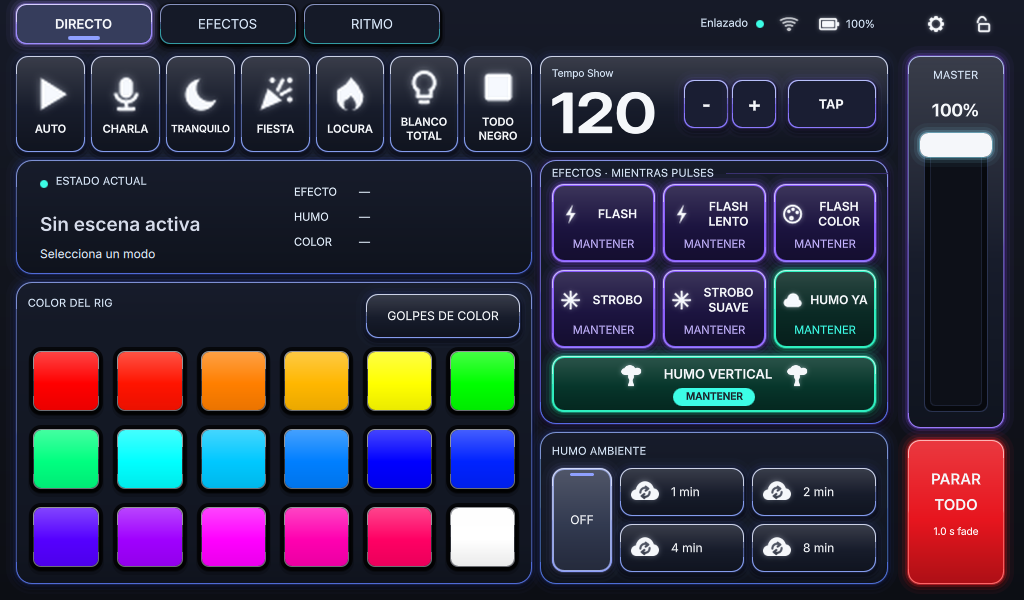
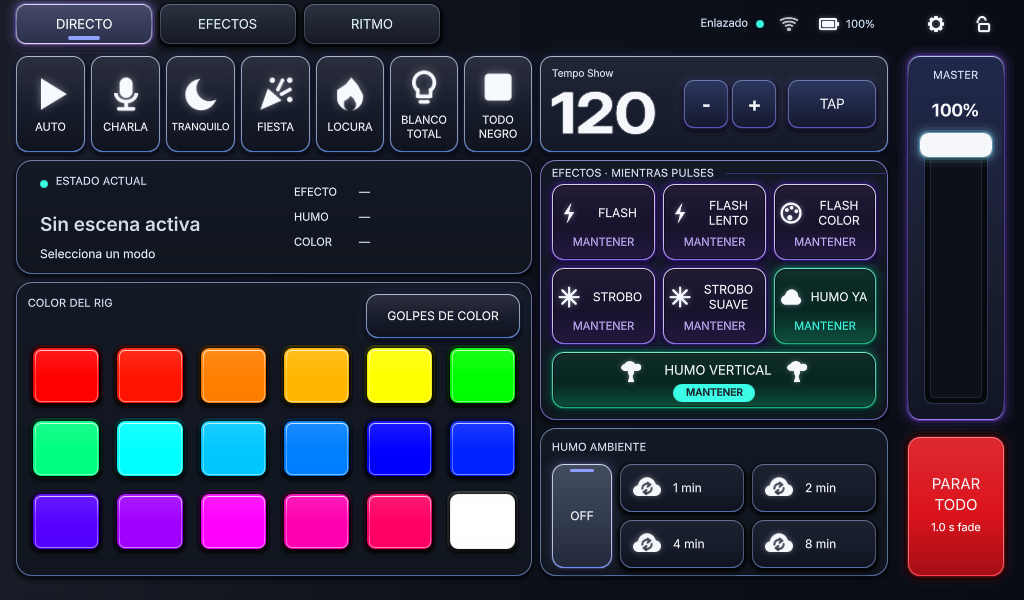
Size effect labels to the concept and record the Stage Console match

diff --git a/qt/qml/HoldTileContent.qml b/qt/qml/HoldTileContent.qml
@@ -26,15 +26,15 @@ Item {
         visible: content.compact
         x: 6; y: 10; width: parent.width - 12; height: parent.height - 38
         DeskAnimatedIcon {
-            x: 0; y: (parent.height - height) / 2
-            width: 25; height: 25; glyph: content.mark
+            x: -3; y: (parent.height - height) / 2
+            width: 28; height: 28; glyph: content.mark
             active: content.active; pressed: content.pressed
         }
         Text {
             x: 28; width: parent.width - 28; height: parent.height
             text: content.control.label || ""
             color: content.ink
-            font.family: "Inter"; font.pixelSize: 13
+            font.family: "Inter"; font.pixelSize: 12
             horizontalAlignment: Text.AlignHCenter
             verticalAlignment: Text.AlignVCenter
             wrapMode: Text.WordWrap

diff --git a/qt/qml/VerticalFogHoldContent.qml b/qt/qml/VerticalFogHoldContent.qml
@@ -24,7 +24,7 @@ Item {
             width: 124; height: 26
             text: "HUMO VERTICAL"
             color: content.ink
-            font.family: "Inter"; font.pixelSize: 14
+            font.family: "Inter"; font.pixelSize: 13
             horizontalAlignment: Text.AlignHCenter
             verticalAlignment: Text.AlignVCenter
             leftPadding: 8

diff --git a/docs/design/futuristic-2026-10-24/README.md b/docs/design/futuristic-2026-10-24/README.md
@@ -25,4 +25,10 @@ The source Mac window passed its `AUDIT` command with `VERIFY 0`. Every concept 
 file docs/design/futuristic-2026-10-24/*.png
 ```
 
-On 2026-10-26 the owner chose Stage Console. The Qt desk now applies its materials without changing geometry: `StageBackdrop`, `StagePanel`, `StageSheen` and `StageGlow` in `qt/qml/`. Idle controls stay dim; violet, teal and red halos mark effects, fog and Parar todo. The Mac capture is `docs/evidence/qt-desk-stage-console-2026-10-26.png`, and `docs/evidence/qt-desk-stage-console-vs-concept-2026-10-26.png` stacks the concept (top, scaled to 1024x600) over it. A second pass after that comparison added `StageRim` (cold top-edge light), `StageWell` (recess and drop shadow), brighter idle edges, the green Humo vertical field, and bundled Inter SemiBold so bold labels match the tablet's face on the Mac. Remaining differences are geometric: the concept's swatches and labels are slightly larger than the backend's control rectangles allow.
+On 2026-10-26 the owner chose Stage Console, and the Qt desk was brought to it region by region against the concept scaled to 1024x600.
+
+- Geometry: DIRECTO now ends its panels and Parar todo at 576 (`DESK_DIRECT_*` in `src/desk_layout.h`), the rig rows sit on the concept's 73 px pitch, the master ends level with the effects panel, and the haze rows keep the 48 px touch minimum with an 8 px bottom pad. The backend owns these rectangles, so touch follows the drawing.
+- Materials: every decoration is baked once by `qt/bake_stage_chrome.py` from `qt/chrome-baker/` into 9-slice ICO images (`qt/qml/chrome/`) and drawn as one `StageChrome` per control. Each look sets a rim that fades from the top edge to a per-look side level and a coloured base light, and may add a halo, a recess frame or a dark inner line. Live colours stay in QML: the glass gradient on each tile, and a ring in each swatch's own colour.
+- Type and icons: labels follow the concept's regular weight, and the icon set is drawn from `tools/icons.py` vectors at 48 px.
+
+`docs/evidence/qt-desk-stage-console-2026-10-26.png` is the Mac capture, and `docs/evidence/qt-desk-stage-console-vs-concept-2026-10-26.png` stacks the concept (top) over it. A blurred mean per-pixel difference against the concept fell from 18.4 to 9.9 over these passes, with every region now between 7.5 and 12.4. What remains is the concept's painted texture and soft text glow, which the tablet's renderer cannot afford as live effects.
